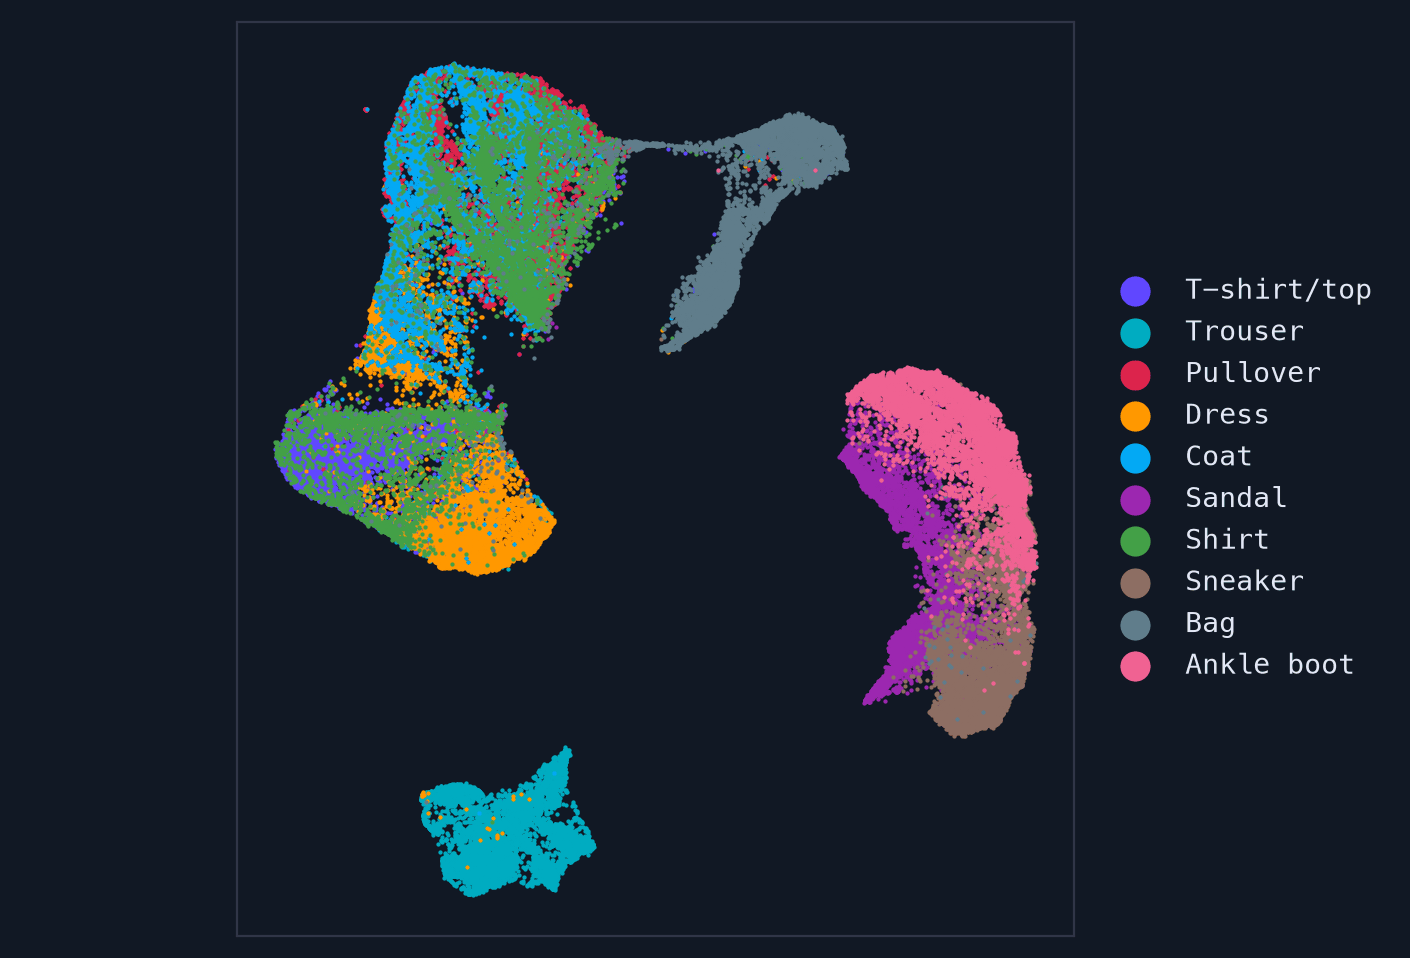
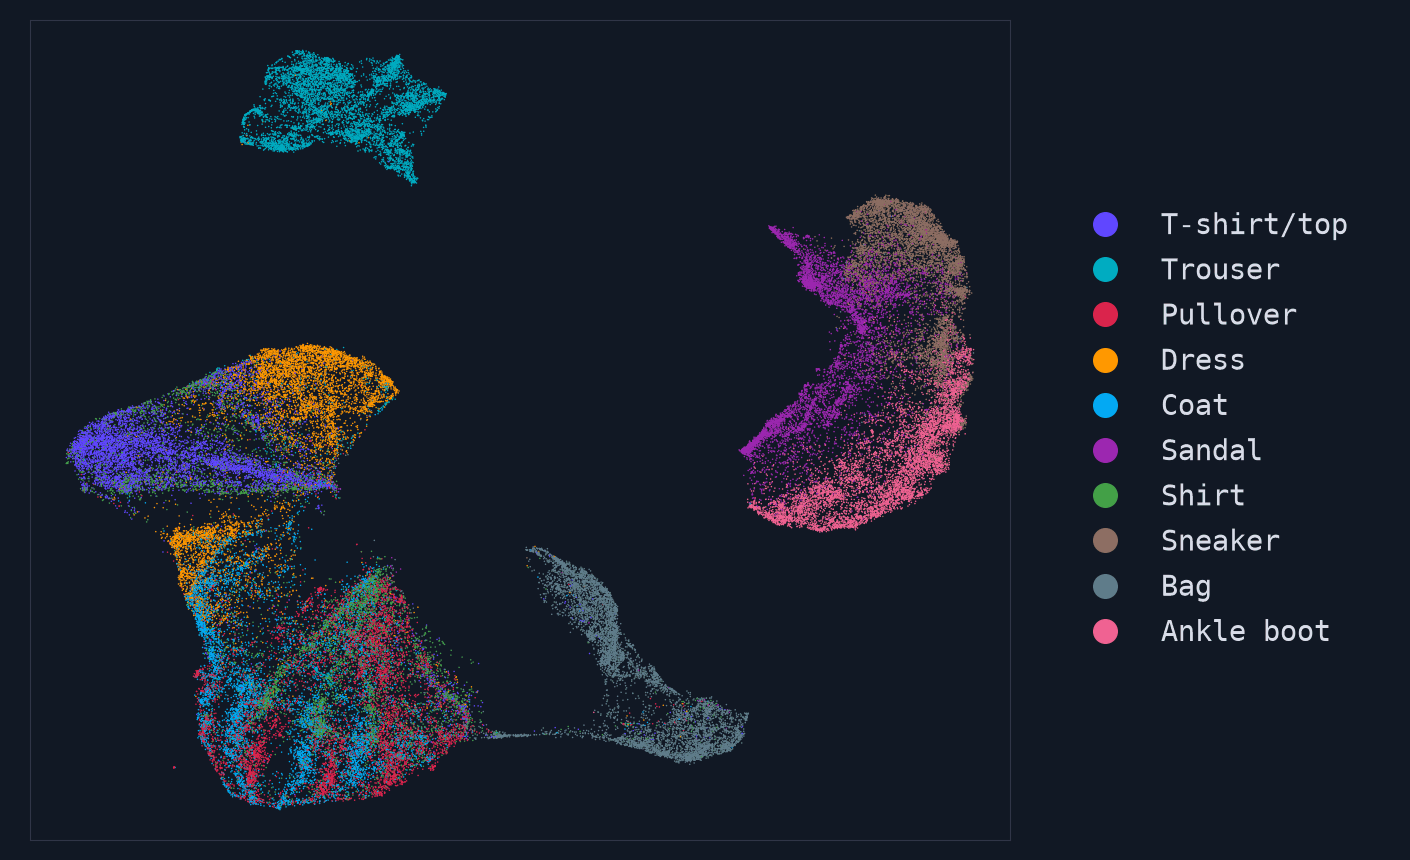
feat: added islands with corrected images of the clusterings

Changed region(s): [[0.0312, 0.0605, 0.9674, 0.9372]]

diff --git a/qdrant-landing/content/documentation/headless/distance-matrix/sklearn-clustering/index.js b/qdrant-landing/content/documentation/headless/distance-matrix/sklearn-clustering/index.js
@@ -1,0 +1,98 @@
+// scikit-learn plot_cluster_comparison, six of the eleven algorithms, same toy datasets and parameters
+// (500 points, StandardScaler, random_state=42). Data: /articles_data/distance-based-exploration/sklearn-clustering.json.
+// Labels: hex digit per point, "n" is noise (-1). Colors are invariant across themes.
+const NS = 'http://www.w3.org/2000/svg';
+const SHORT = ['KMeans', 'Spectral', 'Ward', 'DBSCAN', 'HDBSCAN', 'GMM'];
+const NOTES = [
+  'assigns each point to the nearest of k centers, so it finds round, similar-sized groups.',
+  'clusters on a nearest-neighbor graph, so it follows the shape of rings and moons.',
+  'merges the closest groups bottom-up, here limited to neighbors by a connectivity graph.',
+  'grows clusters through dense regions and marks sparse points as noise, shown in yellow.',
+  'is DBSCAN across many density levels; points it cannot place are noise, shown in yellow.',
+  'fits k Gaussians, so it finds elliptical groups.',
+];
+const CELL = 200;
+const GAP = 12;
+const PAD = 10;
+
+export async function mount(node) {
+  try {
+    const response = await fetch('/articles_data/distance-based-exploration/sklearn-clustering.json');
+    if (!response.ok) throw new Error(`Clustering request failed: ${response.status}`);
+    render(node, await response.json());
+  } catch (error) {
+    node.dispatchEvent(new CustomEvent('island:error', { bubbles: true }));
+  }
+}
+
+function render(node, data) {
+  node.classList.add('qi-sc');
+  const cols = data.algorithms.length;
+  const rows = data.datasets.length;
+  const W = cols * CELL + (cols - 1) * GAP;
+  const H = rows * CELL + (rows - 1) * GAP;
+  node.innerHTML = `
+    <div class="qi-fig">
+      <div class="qi-controls">
+        <div class="qi-group qi-sc__chips" role="group" aria-label="Highlight an algorithm"></div>
+      </div>
+      <div class="qi-sc__heads" aria-hidden="true">${SHORT.map(name => `<span>${name}</span>`).join('')}</div>
+      <svg class="qi-svg" viewBox="0 0 ${W} ${H}" role="img" aria-label="${cols} clustering algorithms applied to ${rows} two-dimensional datasets"></svg>
+      <p class="qi-status qi-status--2" role="status" aria-live="polite" aria-atomic="true"></p>
+    </div>`;
+
+  const svg = node.querySelector('.qi-svg');
+  const heads = [...node.querySelectorAll('.qi-sc__heads span')];
+  const cells = Array.from({ length: cols }, () => []);
+  const span = CELL - 2 * PAD;
+  data.datasets.forEach((dataset, r) => {
+    for (let c = 0; c < cols; c++) {
+      const ox = c * (CELL + GAP);
+      const oy = r * (CELL + GAP);
+      const group = document.createElementNS(NS, 'g');
+      group.innerHTML = `<rect class="qi-frame" x="${ox + 1}" y="${oy + 1}" width="${CELL - 2}" height="${CELL - 2}" rx="4"/>`;
+      const parts = {};
+      const labels = dataset.labels[c];
+      for (let i = 0; i < labels.length; i++) {
+        (parts[labels[i]] ||= []).push(`M${(ox + PAD + dataset.xy[i * 2] * span / 1000).toFixed(1)} ${(oy + PAD + dataset.xy[i * 2 + 1] * span / 1000).toFixed(1)}h0`);
+      }
+      for (const [label, d] of Object.entries(parts)) {
+        const path = document.createElementNS(NS, 'path');
+        path.setAttribute('class', 'qi-sc__dots');
+        path.setAttribute('d', d.join(''));
+        path.style.stroke = label === 'n' ? 'var(--sc-noise)' : `var(--sc-${parseInt(label, 16) % 7})`;
+        group.append(path);
+      }
+      svg.append(group);
+      cells[c].push(group);
+    }
+  });
+
+  const chips = data.algorithms.map((name, c) => {
+    const chip = document.createElement('button');
+    chip.type = 'button';
+    chip.className = 'qi-chip';
+    chip.setAttribute('aria-pressed', 'false');
+    chip.textContent = name;
+    node.querySelector('.qi-sc__chips').append(chip);
+    return chip;
+  });
+  const status = node.querySelector('.qi-status');
+
+  let picked = null;
+  function update() {
+    chips.forEach((chip, c) => chip.setAttribute('aria-pressed', String(picked === c)));
+    cells.forEach((column, c) => column.forEach(group => group.classList.toggle('is-faded', picked !== null && picked !== c)));
+    heads.forEach((head, c) => head.classList.toggle('is-faded', picked !== null && picked !== c));
+    status.textContent = picked === null
+      ? 'Every column runs one algorithm on the same six datasets, each color is one cluster found. Select an algorithm to highlight it.'
+      : `${data.algorithms[picked]} ${NOTES[picked]}`;
+  }
+  chips.forEach((chip, c) => chip.addEventListener('click', () => {
+    picked = picked === c ? null : c;
+    update();
+  }));
+
+  update();
+  node.dispatchEvent(new CustomEvent('island:ready', { bubbles: true }));
+}

diff --git a/qdrant-landing/content/documentation/headless/distance-matrix/fashion-umap/index.js b/qdrant-landing/content/documentation/headless/distance-matrix/fashion-umap/index.js
@@ -1,0 +1,71 @@
+// Fashion-MNIST UMAP: 14000 of the 70000 images, umap-learn defaults, random_state=42.
+// Data: /articles_data/distance-based-exploration/fashion-umap.json. Class colors are invariant across themes.
+const NS = 'http://www.w3.org/2000/svg';
+const NAMES = ['T-shirt/top', 'Trouser', 'Pullover', 'Dress', 'Coat', 'Sandal', 'Shirt', 'Sneaker', 'Bag', 'Ankle boot'];
+
+export async function mount(node) {
+  try {
+    const response = await fetch('/articles_data/distance-based-exploration/fashion-umap.json');
+    if (!response.ok) throw new Error(`Fashion-MNIST map request failed: ${response.status}`);
+    render(node, await response.json());
+  } catch (error) {
+    node.dispatchEvent(new CustomEvent('island:error', { bubbles: true }));
+  }
+}
+
+function render(node, data) {
+  node.classList.add('qi-fm');
+  node.innerHTML = `
+    <div class="qi-fig">
+      <div class="qi-fm__legend qi-group" role="group" aria-label="Highlight a clothing category"></div>
+      <svg class="qi-svg" viewBox="0 0 ${data.W} ${data.H}" role="img" aria-label="UMAP of Fashion-MNIST, colored by the ten clothing categories">
+        <rect class="qi-frame" x="1" y="1" width="${data.W - 2}" height="${data.H - 2}" rx="6"/>
+      </svg>
+      <p class="qi-status qi-status--2" role="status" aria-live="polite" aria-atomic="true"></p>
+    </div>`;
+
+  const svg = node.querySelector('.qi-svg');
+  const legend = node.querySelector('.qi-fm__legend');
+  const status = node.querySelector('.qi-status');
+  const paths = NAMES.map((_, k) => {
+    const path = document.createElementNS(NS, 'path');
+    path.setAttribute('class', 'qi-fm__dots');
+    path.style.stroke = `var(--fm-${k})`;
+    svg.append(path);
+    return path;
+  });
+  const parts = NAMES.map(() => []);
+  const counts = NAMES.map(() => 0);
+  for (let i = 0; i < data.cls.length; i++) {
+    const k = +data.cls[i];
+    parts[k].push(`M${data.xy[i * 2]} ${data.xy[i * 2 + 1]}h0`);
+    counts[k]++;
+  }
+  paths.forEach((path, k) => path.setAttribute('d', parts[k].join('')));
+
+  const chips = NAMES.map((name, k) => {
+    const chip = document.createElement('button');
+    chip.type = 'button';
+    chip.className = 'qi-chip';
+    chip.setAttribute('aria-pressed', 'false');
+    chip.innerHTML = `<span class="qi-chip__swatch" style="--swatch: var(--fm-${k})" aria-hidden="true"></span>${name}`;
+    legend.append(chip);
+    return chip;
+  });
+
+  let picked = null;
+  function update() {
+    chips.forEach((chip, k) => chip.setAttribute('aria-pressed', String(picked === k)));
+    paths.forEach((path, k) => path.classList.toggle('is-faded', picked !== null && picked !== k));
+    status.textContent = picked === null
+      ? 'Each color is one clothing category. UMAP never saw the labels, yet the categories form their own regions. Select a category to highlight it.'
+      : `${NAMES[picked]}: ${counts[picked]} of ${data.cls.length} plotted images.`;
+  }
+  chips.forEach((chip, k) => chip.addEventListener('click', () => {
+    picked = picked === k ? null : k;
+    update();
+  }));
+
+  update();
+  node.dispatchEvent(new CustomEvent('island:ready', { bubbles: true }));
+}

diff --git a/qdrant-landing/content/documentation/headless/distance-matrix/sklearn-clustering/index.css b/qdrant-landing/content/documentation/headless/distance-matrix/sklearn-clustering/index.css
@@ -1,0 +1,38 @@
+/* Shared chrome inherits the article theme. Cluster colors are invariant. */
+.qi-sc {
+  --sc-0: #6047ff;
+  --sc-1: #00acc1;
+  --sc-2: #dc244c;
+  --sc-3: #ff9800;
+  --sc-4: #03a9f4;
+  --sc-5: #9c27b0;
+  --sc-6: #43a047;
+  --sc-noise: #cddc39;
+  font-size: 14px;
+  line-height: 1.45;
+}
+.qi-sc .qi-chip { font-size: 14px; }
+.qi-sc .qi-controls { gap: 8px 12px; }
+.qi-sc button:focus-visible { outline: 2px solid var(--qi-hot); outline-offset: 2px; }
+.qi-sc__heads {
+  display: grid;
+  grid-template-columns: repeat(6, 1fr);
+  gap: 0 calc(100% * 12 / 1260);
+  margin: 8px 0 4px;
+  color: var(--qi-fg);
+  font-size: 14px;
+  text-align: center;
+}
+.qi-sc__heads span { transition: opacity 0.15s ease; }
+.qi-sc__dots { fill: none; stroke-width: 7; stroke-linecap: round; }
+.qi-svg g { transition: opacity 0.15s ease; }
+.qi-sc__heads .is-faded,
+.qi-sc .qi-svg g.is-faded { opacity: 0.2; }
+@media (max-width: 640px) {
+  .qi-sc__heads { font-size: 12px; }
+}
+@media (prefers-reduced-motion: reduce) {
+  .qi-sc .qi-chip,
+  .qi-sc__heads span,
+  .qi-sc .qi-svg g { transition: none; }
+}

diff --git a/qdrant-landing/content/documentation/headless/distance-matrix/fashion-umap/index.css b/qdrant-landing/content/documentation/headless/distance-matrix/fashion-umap/index.css
@@ -1,0 +1,24 @@
+/* Shared chrome inherits the article theme. Category colors are invariant. */
+.qi-fm {
+  --fm-0: #6047ff;
+  --fm-1: #00acc1;
+  --fm-2: #dc244c;
+  --fm-3: #ff9800;
+  --fm-4: #03a9f4;
+  --fm-5: #9c27b0;
+  --fm-6: #43a047;
+  --fm-7: #8d6e63;
+  --fm-8: #607d8b;
+  --fm-9: #f06292;
+  font-size: 14px;
+  line-height: 1.45;
+}
+.qi-fm .qi-chip { font-size: 14px; }
+.qi-fm .qi-fm__legend { gap: 8px; }
+.qi-fm button:focus-visible { outline: 2px solid var(--qi-hot); outline-offset: 2px; }
+.qi-fm__dots { fill: none; stroke-width: 5; stroke-linecap: round; transition: opacity 0.15s ease; }
+.qi-fm__dots.is-faded { opacity: 0.12; }
+@media (prefers-reduced-motion: reduce) {
+  .qi-fm .qi-chip,
+  .qi-fm__dots { transition: none; }
+}

diff --git a/qdrant-landing/content/articles/distance-based-exploration.md b/qdrant-landing/content/articles/distance-based-exploration.md
@@ -39,9 +39,11 @@ Initially, we might want to visualize an entire dataset, or at least a large por
 
 We will use [UMAP](https://github.com/lmcinnes/umap) as our dimensionality reduction algorithm.
 
-Here is a **very** simplified but intuitive explanation of UMAP: it finds which points are close to each other in the high-dimensional space, then places them on a 2D plane so that the same points stay close.
+Here is a very simplified but intuitive explanation of UMAP: it finds which points are close to each other in the high-dimensional space, then places them on a 2D plane so that the same points stay close.
 
-{{< figure src="/articles_data/distance-based-exploration/umap.png" alt="UMAP of the Fashion-MNIST dataset, with each clothing category forming its own region" caption="UMAP on the Fashion-MNIST dataset, recreated from the example in the UMAP documentation, [source](https://github.com/lmcinnes/umap?tab=readme-ov-file#performance-and-examples)" >}}
+{{< island path="content/documentation/headless/distance-matrix/fashion-umap" width="100%" ratio="1 / 1" title="UMAP on the Fashion-MNIST dataset, recreated from the example in the UMAP documentation, [source](https://github.com/lmcinnes/umap?tab=readme-ov-file#performance-and-examples)" >}}
+![UMAP of the Fashion-MNIST dataset, with each clothing category forming its own region](/articles_data/distance-based-exploration/umap.png)
+{{< /island >}}
 
 UMAP keeps neighborhoods, not exact distances, so the gaps between groups and the size of a group on the plot carry no meaning. It only needs the nearest neighbors of each point, which is what the sparse matrix from Qdrant holds.
 
@@ -154,7 +156,9 @@ Another approach to data structure understanding is clustering, which groups sim
 
 *Note that there's no universally best clustering criterion or algorithm.*
 
-{{< figure src="/articles_data/distance-based-exploration/clustering.png" alt="Six clustering algorithms applied to six two-dimensional datasets" caption="Six of the clustering algorithms compared in the scikit-learn example, recreated on the same toy datasets, [source](https://scikit-learn.org/)" >}}
+{{< island path="content/documentation/headless/distance-matrix/sklearn-clustering" width="100%" ratio="4 / 5" title="Six of the clustering algorithms compared in the scikit-learn example, recreated on the same toy datasets. The [full example](https://scikit-learn.org/stable/auto_examples/cluster/plot_cluster_comparison.html) compares eleven." >}}
+![Six clustering algorithms applied to six two-dimensional datasets](/articles_data/distance-based-exploration/clustering.png)
+{{< /island >}}
 
 Let's consider a simple example of clustering the Midlib dataset with the KMeans algorithm.
 
